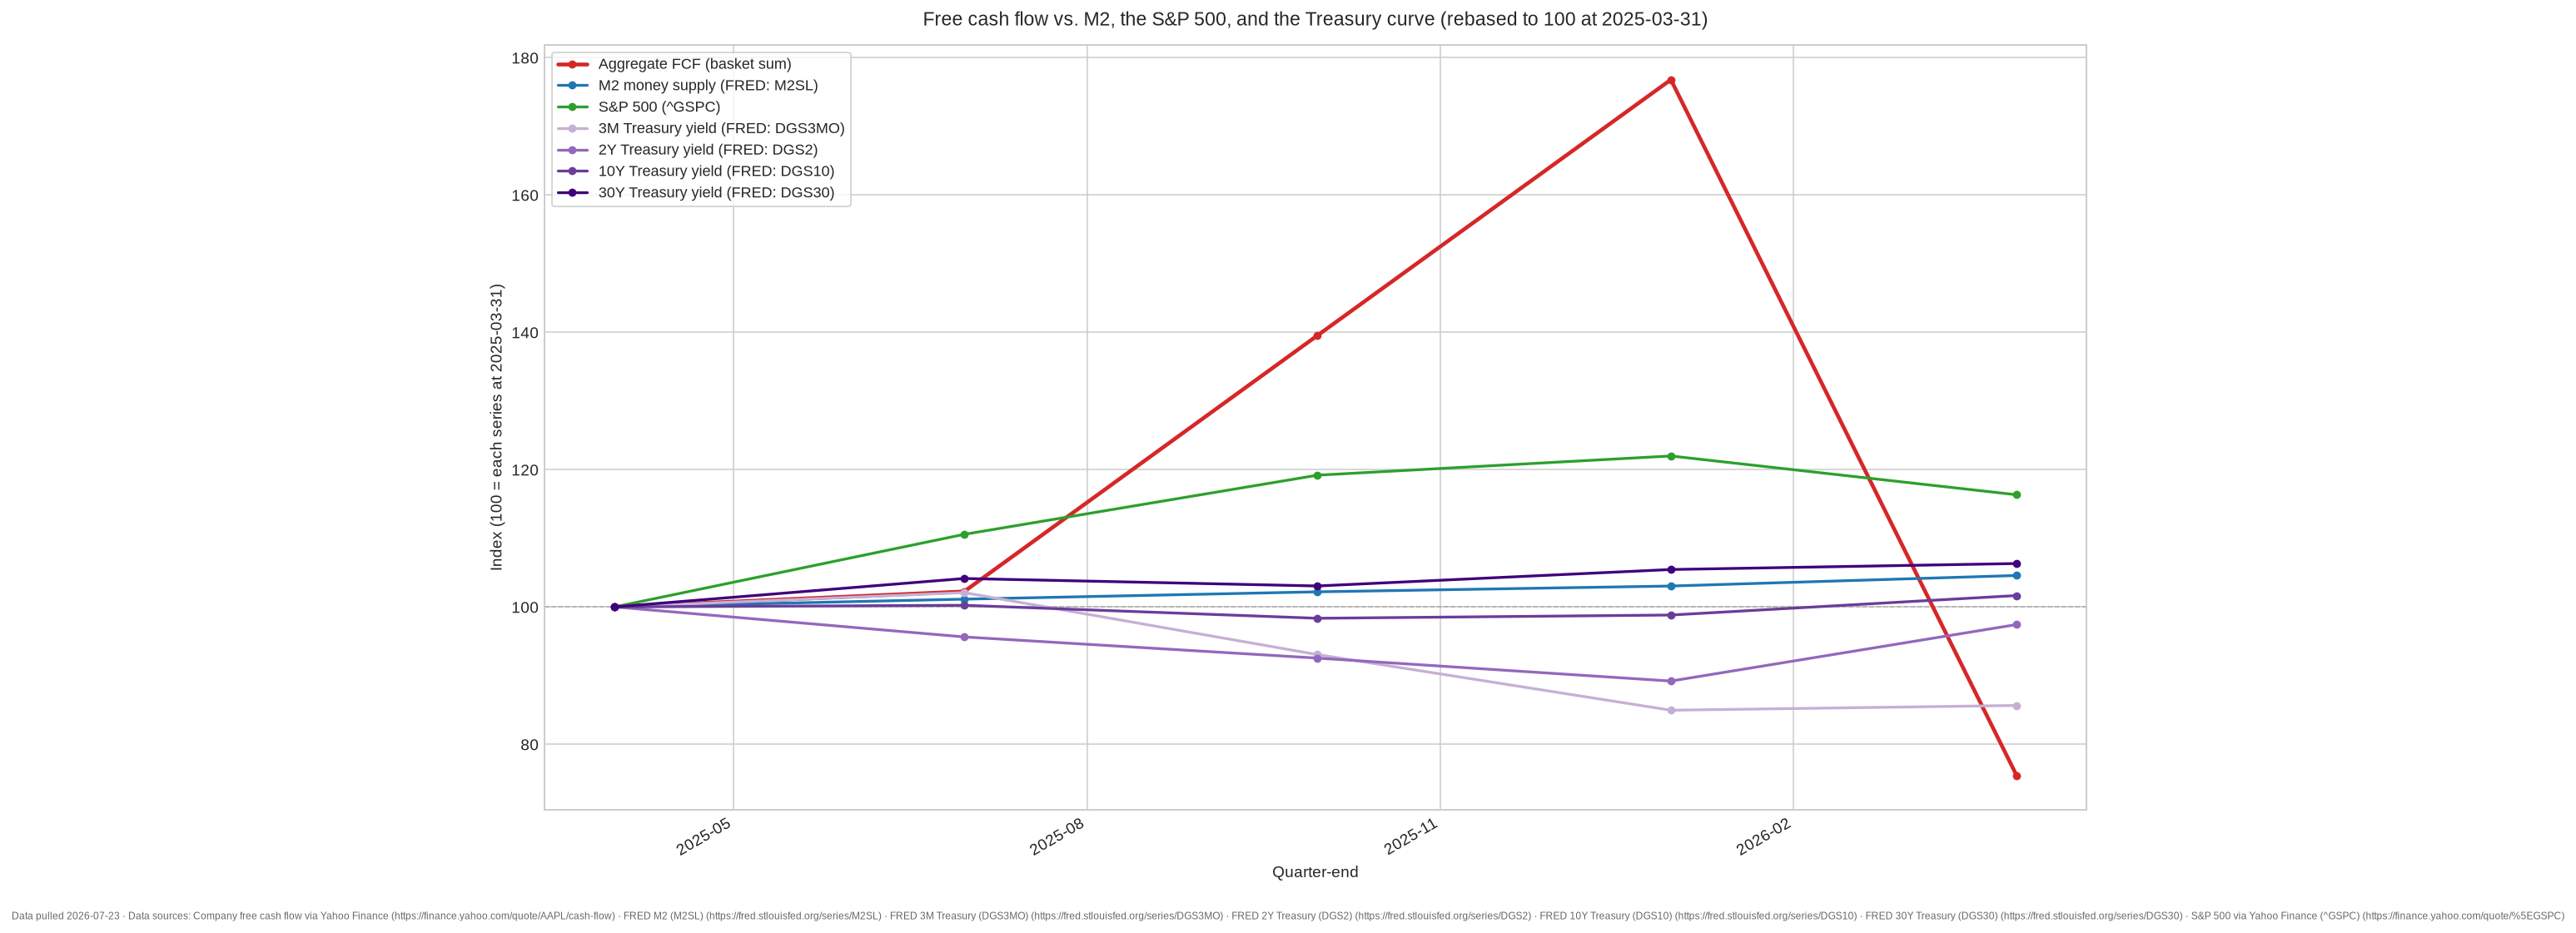
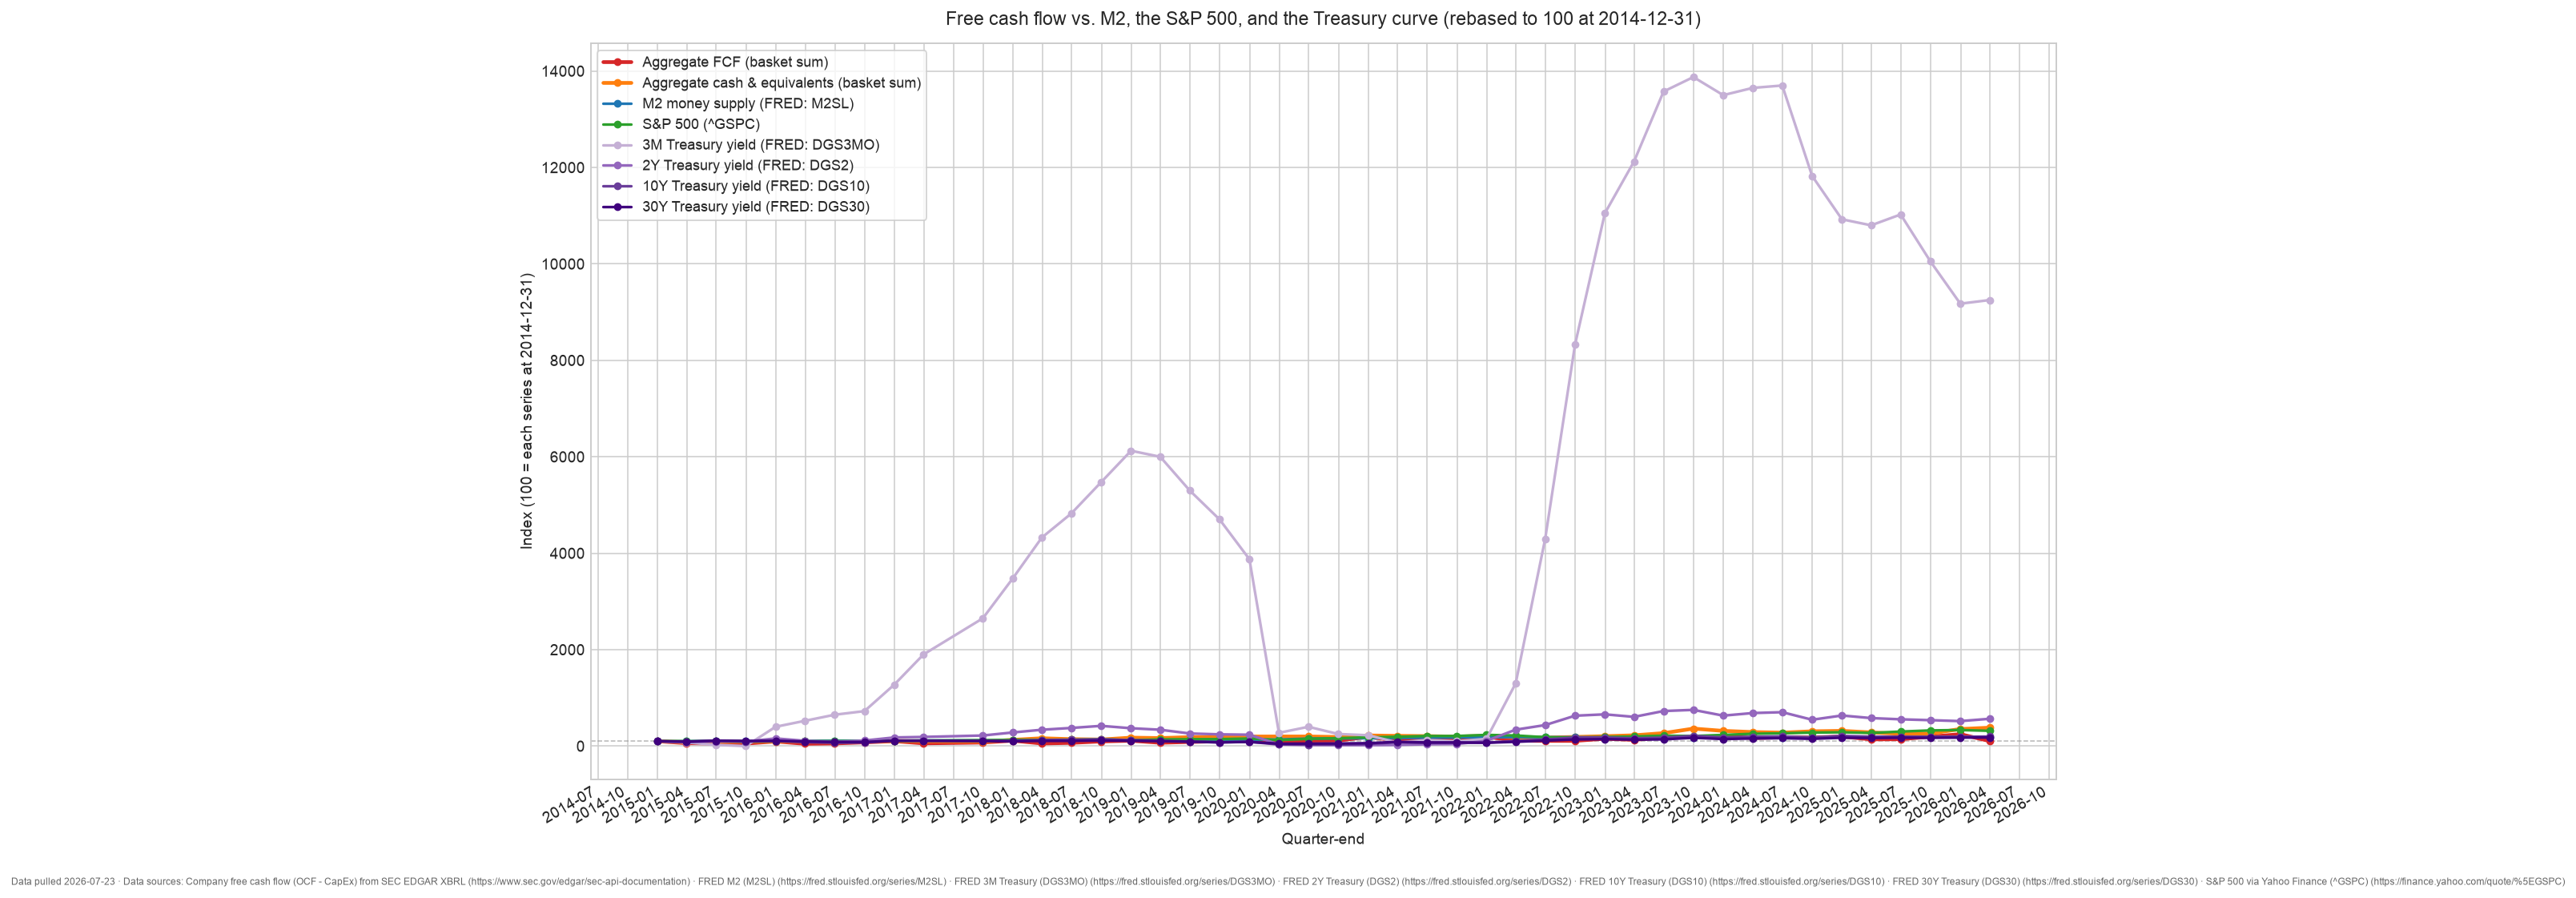
Merge XBRL tags per concept so FCF spans the full history
The FCF reconstruction produced a series.csv where no quarter had FCF
for all five basket members, so plot_fcf_macro.py aborted with
"No quarter has FCF for every basket member."

Three compounding bugs in the SEC EDGAR fetch:

- _pick_concept returned the first non-empty XBRL tag and stopped, but
  filers rename tags mid-history (AMZN CapEx: PropertyPlantAndEquipment
  -> ProductiveAssets in 2017; AAPL the reverse), so each series was
  silently truncated to one era. Replace with _concept_facts, which
  unions facts across every candidate tag.
- _discrete_quarterly differenced YTD legs keyed on SEC's fy/fp labels,
  which describe the filing, not the period, so prior-year comparatives
  collided and real quarters were dropped. Rework to group by the actual
  reported period (start/end), take native ~3-month legs directly, and
  difference consecutive YTD legs only when one quarter apart.
- Apple's 52/53-week fiscal quarters end on dates (e.g. 2017-04-01) that
  snap forward into the next calendar quarter. Add _nearest_quarter_end
  for report-period ends; keep containing-quarter bucketing for the
  dense FRED/Yahoo daily series.

Quarters with all five FCF members: 0 -> 45 (2014-Q4..2026-Q1). The
spurious MSFT -$2.7B quarter is gone; remaining negatives are AMZN's
real Q1/AI-capex seasonality.

diff --git a/fcf-macro-indicators/output/fcf-macro-indicators.html b/fcf-macro-indicators/output/fcf-macro-indicators.html
@@ -2,6 +2,6 @@
 <head><title>Free Cash Flow vs. M2, the S&amp;P 500 &amp; the Treasury Curve</title><meta charset="utf-8" /></head>
 <body>
     <div style="height:100%; width:100%;">                        <script>window.PlotlyConfig = {MathJaxConfig: 'local'};</script>
-        <script charset="utf-8" src="https://cdn.plot.ly/plotly-3.7.0.min.js" integrity="sha256-jvTGqxNp8AGWEcvNLVuKr+8j5dGe9Yw51LQkmDH+IYA=" crossorigin="anonymous"></script>                <div id="5cff0dcf-771c-4546-933f-2775f1819761" class="plotly-graph-div" style="height:100%; width:100%;"></div>            <script>                window.PLOTLYENV=window.PLOTLYENV || {};                                if (document.getElementById("5cff0dcf-771c-4546-933f-2775f1819761")) {                    Plotly.newPlot(                        "5cff0dcf-771c-4546-933f-2775f1819761",                        [{"hovertemplate":"%{y:.1f}\u003cextra\u003eAggregate FCF (basket sum)\u003c\u002fextra\u003e","line":{"color":"#d62728","width":2.6},"marker":{"size":5},"mode":"lines+markers","name":"Aggregate FCF (basket sum)","x":["2025-03-31T00:00:00.000000","2025-06-30T00:00:00.000000","2025-09-30T00:00:00.000000","2025-12-31T00:00:00.000000","2026-03-31T00:00:00.000000"],"y":{"dtype":"f8","bdata":"AAAAAAAAWUBuX1ZoQo9ZQCftYAdXcWFAFLPuZyAZZkCebW6yHt5SQA=="},"type":"scatter"},{"hovertemplate":"%{y:.1f}\u003cextra\u003eM2 money supply (FRED: M2SL)\u003c\u002fextra\u003e","line":{"color":"#1f77b4","width":1.7},"marker":{"size":5},"mode":"lines+markers","name":"M2 money supply (FRED: M2SL)","x":["2025-03-31T00:00:00.000000","2025-06-30T00:00:00.000000","2025-09-30T00:00:00.000000","2025-12-31T00:00:00.000000","2026-03-31T00:00:00.000000"],"y":{"dtype":"f8","bdata":"AAAAAAAAWUDE\u002fQATT0hZQHA4fh6qjFlAsHb0HafCWUBnLmGy1SRaQA=="},"type":"scatter"},{"hovertemplate":"%{y:.1f}\u003cextra\u003eS&P 500 (^GSPC)\u003c\u002fextra\u003e","line":{"color":"#2ca02c","width":1.7},"marker":{"size":5},"mode":"lines+markers","name":"S&P 500 (^GSPC)","x":["2025-03-31T00:00:00.000000","2025-06-30T00:00:00.000000","2025-09-30T00:00:00.000000","2025-12-31T00:00:00.000000","2026-03-31T00:00:00.000000"],"y":{"dtype":"f8","bdata":"AAAAAAAAWUD24ci5ZaRbQJ9KBSjQy11AhcDKkOh+XkA7mCwcaRVdQA=="},"type":"scatter"},{"hovertemplate":"%{y:.1f}\u003cextra\u003e3M Treasury yield (FRED: DGS3MO)\u003c\u002fextra\u003e","line":{"color":"#c5b0d5","width":1.7},"marker":{"size":5},"mode":"lines+markers","name":"3M Treasury yield (FRED: DGS3MO)","x":["2025-03-31T00:00:00.000000","2025-06-30T00:00:00.000000","2025-09-30T00:00:00.000000","2025-12-31T00:00:00.000000","2026-03-31T00:00:00.000000"],"y":{"dtype":"f8","bdata":"AAAAAAAAWUBVVVVVVYVZQDiO4ziOQ1dA0F5Cewk9VUCX0F5Ce2lVQA=="},"type":"scatter"},{"hovertemplate":"%{y:.1f}\u003cextra\u003e2Y Treasury yield (FRED: DGS2)\u003c\u002fextra\u003e","line":{"color":"#9467bd","width":1.7},"marker":{"size":5},"mode":"lines+markers","name":"2Y Treasury yield (FRED: DGS2)","x":["2025-03-31T00:00:00.000000","2025-06-30T00:00:00.000000","2025-09-30T00:00:00.000000","2025-12-31T00:00:00.000000","2026-03-31T00:00:00.000000"],"y":{"dtype":"f8","bdata":"AAAAAAAAWUACzML4TuhXQG7FxBHhIldA9+iGV\u002f9MVkAvpYG\u002feVtYQA=="},"type":"scatter"},{"hovertemplate":"%{y:.1f}\u003cextra\u003e10Y Treasury yield (FRED: DGS10)\u003c\u002fextra\u003e","line":{"color":"#6a3d9a","width":1.7},"marker":{"size":5},"mode":"lines+markers","name":"10Y Treasury yield (FRED: DGS10)","x":["2025-03-31T00:00:00.000000","2025-06-30T00:00:00.000000","2025-09-30T00:00:00.000000","2025-12-31T00:00:00.000000","2026-03-31T00:00:00.000000"],"y":{"dtype":"f8","bdata":"AAAAAAAAWUBZtDpJIQ9ZQIwRZf8WllhAP3rakVm0WEBy7poA6WlZQA=="},"type":"scatter"},{"hovertemplate":"%{y:.1f}\u003cextra\u003e30Y Treasury yield (FRED: DGS30)\u003c\u002fextra\u003e","line":{"color":"#3f007d","width":1.7},"marker":{"size":5},"mode":"lines+markers","name":"30Y Treasury yield (FRED: DGS30)","x":["2025-03-31T00:00:00.000000","2025-06-30T00:00:00.000000","2025-09-30T00:00:00.000000","2025-12-31T00:00:00.000000","2026-03-31T00:00:00.000000"],"y":{"dtype":"f8","bdata":"AAAAAAAAWUAml7N67AhaQFOKGPw0w1lAJEAHeZVcWkDNsOl3W5RaQA=="},"type":"scatter"}],                        {"template":{"data":{"barpolar":[{"marker":{"line":{"color":"white","width":0.5},"pattern":{"fillmode":"overlay","size":10,"solidity":0.2}},"type":"barpolar"}],"bar":[{"error_x":{"color":"#2a3f5f"},"error_y":{"color":"#2a3f5f"},"marker":{"line":{"color":"white","width":0.5},"pattern":{"fillmode":"overlay","size":10,"solidity":0.2}},"type":"bar"}],"carpet":[{"aaxis":{"endlinecolor":"#2a3f5f","gridcolor":"#C8D4E3","linecolor":"#C8D4E3","minorgridcolor":"#C8D4E3","startlinecolor":"#2a3f5f"},"baxis":{"endlinecolor":"#2a3f5f","gridcolor":"#C8D4E3","linecolor":"#C8D4E3","minorgridcolor":"#C8D4E3","startlinecolor":"#2a3f5f"},"type":"carpet"}],"choropleth":[{"colorbar":{"outlinewidth":0,"ticks":""},"type":"choropleth"}],"contourcarpet":[{"colorbar":{"outlinewidth":0,"ticks":""},"type":"contourcarpet"}],"contour":[{"colorbar":{"outlinewidth":0,"ticks":""},"colorscale":[[0.0,"#0d0887"],[0.1111111111111111,"#46039f"],[0.2222222222222222,"#7201a8"],[0.3333333333333333,"#9c179e"],[0.4444444444444444,"#bd3786"],[0.5555555555555556,"#d8576b"],[0.6666666666666666,"#ed7953"],[0.7777777777777778,"#fb9f3a"],[0.8888888888888888,"#fdca26"],[1.0,"#f0f921"]],"type":"contour"}],"heatmap":[{"colorbar":{"outlinewidth":0,"ticks":""},"colorscale":[[0.0,"#0d0887"],[0.1111111111111111,"#46039f"],[0.2222222222222222,"#7201a8"],[0.3333333333333333,"#9c179e"],[0.4444444444444444,"#bd3786"],[0.5555555555555556,"#d8576b"],[0.6666666666666666,"#ed7953"],[0.7777777777777778,"#fb9f3a"],[0.8888888888888888,"#fdca26"],[1.0,"#f0f921"]],"type":"heatmap"}],"histogram2dcontour":[{"colorbar":{"outlinewidth":0,"ticks":""},"colorscale":[[0.0,"#0d0887"],[0.1111111111111111,"#46039f"],[0.2222222222222222,"#7201a8"],[0.3333333333333333,"#9c179e"],[0.4444444444444444,"#bd3786"],[0.5555555555555556,"#d8576b"],[0.6666666666666666,"#ed7953"],[0.7777777777777778,"#fb9f3a"],[0.8888888888888888,"#fdca26"],[1.0,"#f0f921"]],"type":"histogram2dcontour"}],"histogram2d":[{"colorbar":{"outlinewidth":0,"ticks":""},"colorscale":[[0.0,"#0d0887"],[0.1111111111111111,"#46039f"],[0.2222222222222222,"#7201a8"],[0.3333333333333333,"#9c179e"],[0.4444444444444444,"#bd3786"],[0.5555555555555556,"#d8576b"],[0.6666666666666666,"#ed7953"],[0.7777777777777778,"#fb9f3a"],[0.8888888888888888,"#fdca26"],[1.0,"#f0f921"]],"type":"histogram2d"}],"histogram":[{"marker":{"pattern":{"fillmode":"overlay","size":10,"solidity":0.2}},"type":"histogram"}],"mesh3d":[{"colorbar":{"outlinewidth":0,"ticks":""},"type":"mesh3d"}],"parcoords":[{"line":{"colorbar":{"outlinewidth":0,"ticks":""}},"type":"parcoords"}],"pie":[{"automargin":true,"type":"pie"}],"scatter3d":[{"line":{"colorbar":{"outlinewidth":0,"ticks":""}},"marker":{"colorbar":{"outlinewidth":0,"ticks":""}},"type":"scatter3d"}],"scattercarpet":[{"marker":{"colorbar":{"outlinewidth":0,"ticks":""}},"type":"scattercarpet"}],"scattergeo":[{"marker":{"colorbar":{"outlinewidth":0,"ticks":""}},"type":"scattergeo"}],"scattergl":[{"marker":{"colorbar":{"outlinewidth":0,"ticks":""}},"type":"scattergl"}],"scattermapbox":[{"marker":{"colorbar":{"outlinewidth":0,"ticks":""}},"type":"scattermapbox"}],"scattermap":[{"marker":{"colorbar":{"outlinewidth":0,"ticks":""}},"type":"scattermap"}],"scatterpolargl":[{"marker":{"colorbar":{"outlinewidth":0,"ticks":""}},"type":"scatterpolargl"}],"scatterpolar":[{"marker":{"colorbar":{"outlinewidth":0,"ticks":""}},"type":"scatterpolar"}],"scatter":[{"fillpattern":{"fillmode":"overlay","size":10,"solidity":0.2},"type":"scatter"}],"scatterternary":[{"marker":{"colorbar":{"outlinewidth":0,"ticks":""}},"type":"scatterternary"}],"surface":[{"colorbar":{"outlinewidth":0,"ticks":""},"colorscale":[[0.0,"#0d0887"],[0.1111111111111111,"#46039f"],[0.2222222222222222,"#7201a8"],[0.3333333333333333,"#9c179e"],[0.4444444444444444,"#bd3786"],[0.5555555555555556,"#d8576b"],[0.6666666666666666,"#ed7953"],[0.7777777777777778,"#fb9f3a"],[0.8888888888888888,"#fdca26"],[1.0,"#f0f921"]],"type":"surface"}],"table":[{"cells":{"fill":{"color":"#EBF0F8"},"line":{"color":"white"}},"header":{"fill":{"color":"#C8D4E3"},"line":{"color":"white"}},"type":"table"}]},"layout":{"annotationdefaults":{"arrowcolor":"#2a3f5f","arrowhead":0,"arrowwidth":1},"autotypenumbers":"strict","coloraxis":{"colorbar":{"outlinewidth":0,"ticks":""}},"colorscale":{"diverging":[[0,"#8e0152"],[0.1,"#c51b7d"],[0.2,"#de77ae"],[0.3,"#f1b6da"],[0.4,"#fde0ef"],[0.5,"#f7f7f7"],[0.6,"#e6f5d0"],[0.7,"#b8e186"],[0.8,"#7fbc41"],[0.9,"#4d9221"],[1,"#276419"]],"sequential":[[0.0,"#0d0887"],[0.1111111111111111,"#46039f"],[0.2222222222222222,"#7201a8"],[0.3333333333333333,"#9c179e"],[0.4444444444444444,"#bd3786"],[0.5555555555555556,"#d8576b"],[0.6666666666666666,"#ed7953"],[0.7777777777777778,"#fb9f3a"],[0.8888888888888888,"#fdca26"],[1.0,"#f0f921"]],"sequentialminus":[[0.0,"#0d0887"],[0.1111111111111111,"#46039f"],[0.2222222222222222,"#7201a8"],[0.3333333333333333,"#9c179e"],[0.4444444444444444,"#bd3786"],[0.5555555555555556,"#d8576b"],[0.6666666666666666,"#ed7953"],[0.7777777777777778,"#fb9f3a"],[0.8888888888888888,"#fdca26"],[1.0,"#f0f921"]]},"colorway":["#636efa","#EF553B","#00cc96","#ab63fa","#FFA15A","#19d3f3","#FF6692","#B6E880","#FF97FF","#FECB52"],"font":{"color":"#2a3f5f"},"geo":{"bgcolor":"white","lakecolor":"white","landcolor":"white","showlakes":true,"showland":true,"subunitcolor":"#C8D4E3"},"hoverlabel":{"align":"left"},"hovermode":"closest","mapbox":{"style":"light"},"paper_bgcolor":"white","plot_bgcolor":"white","polar":{"angularaxis":{"gridcolor":"#EBF0F8","linecolor":"#EBF0F8","ticks":""},"bgcolor":"white","radialaxis":{"gridcolor":"#EBF0F8","linecolor":"#EBF0F8","ticks":""}},"scene":{"xaxis":{"backgroundcolor":"white","gridcolor":"#DFE8F3","gridwidth":2,"linecolor":"#EBF0F8","showbackground":true,"ticks":"","zerolinecolor":"#EBF0F8"},"yaxis":{"backgroundcolor":"white","gridcolor":"#DFE8F3","gridwidth":2,"linecolor":"#EBF0F8","showbackground":true,"ticks":"","zerolinecolor":"#EBF0F8"},"zaxis":{"backgroundcolor":"white","gridcolor":"#DFE8F3","gridwidth":2,"linecolor":"#EBF0F8","showbackground":true,"ticks":"","zerolinecolor":"#EBF0F8"}},"shapedefaults":{"line":{"color":"#2a3f5f"}},"ternary":{"aaxis":{"gridcolor":"#DFE8F3","linecolor":"#A2B1C6","ticks":""},"baxis":{"gridcolor":"#DFE8F3","linecolor":"#A2B1C6","ticks":""},"bgcolor":"white","caxis":{"gridcolor":"#DFE8F3","linecolor":"#A2B1C6","ticks":""}},"title":{"x":0.05},"xaxis":{"automargin":true,"gridcolor":"#EBF0F8","linecolor":"#EBF0F8","ticks":"","title":{"standoff":15},"zerolinecolor":"#EBF0F8","zerolinewidth":2},"yaxis":{"automargin":true,"gridcolor":"#EBF0F8","linecolor":"#EBF0F8","ticks":"","title":{"standoff":15},"zerolinecolor":"#EBF0F8","zerolinewidth":2}}},"shapes":[{"line":{"color":"#999999","dash":"dash","width":0.8},"type":"line","x0":0,"x1":1,"xref":"x domain","y0":100.0,"y1":100.0,"yref":"y"}],"title":{"font":{"size":14},"text":"Free cash flow vs. M2, the S&P 500, and the Treasury curve (rebased to 100 at 2025-03-31)"},"legend":{"x":0.01,"y":0.99,"bgcolor":"rgba(255,255,255,0.8)","bordercolor":"#cccccc","borderwidth":1},"margin":{"l":70,"r":30,"t":90,"b":60},"hovermode":"x unified","dragmode":"zoom","updatemenus":[{"buttons":[{"args":[{"yaxis.type":"linear"}],"label":"Linear","method":"relayout"},{"args":[{"yaxis.type":"log"}],"label":"Log","method":"relayout"}],"direction":"right","showactive":true,"type":"buttons","x":1.0,"xanchor":"right","y":1.12}],"xaxis":{"title":{"text":"Quarter-end"},"rangeslider":{"visible":true,"thickness":0.06},"showspikes":true,"spikemode":"across","spikethickness":1,"rangeselector":{"buttons":[{"count":3,"label":"3y","step":"year","stepmode":"backward"},{"count":5,"label":"5y","step":"year","stepmode":"backward"},{"count":10,"label":"10y","step":"year","stepmode":"backward"},{"label":"All","step":"all"}]}},"yaxis":{"title":{"text":"Index (100 = each series at 2025-03-31)"},"fixedrange":false,"showspikes":false}},                        {"scrollZoom": true, "displaylogo": false, "responsive": true}                    )                };            </script>        </div>
-<footer style="font-family:system-ui,-apple-system,Segoe UI,Roboto,sans-serif;font-size:12px;color:#666;text-align:center;padding:8px 16px 16px">Data pulled 2026-07-23 &middot; <strong>Data sources:</strong> <a href="https://finance.yahoo.com/quote/AAPL/cash-flow" target="_blank" rel="noopener">Company free cash flow via Yahoo Finance</a> · <a href="https://fred.stlouisfed.org/series/M2SL" target="_blank" rel="noopener">FRED M2 (M2SL)</a> · <a href="https://fred.stlouisfed.org/series/DGS3MO" target="_blank" rel="noopener">FRED 3M Treasury (DGS3MO)</a> · <a href="https://fred.stlouisfed.org/series/DGS2" target="_blank" rel="noopener">FRED 2Y Treasury (DGS2)</a> · <a href="https://fred.stlouisfed.org/series/DGS10" target="_blank" rel="noopener">FRED 10Y Treasury (DGS10)</a> · <a href="https://fred.stlouisfed.org/series/DGS30" target="_blank" rel="noopener">FRED 30Y Treasury (DGS30)</a> · <a href="https://finance.yahoo.com/quote/%5EGSPC" target="_blank" rel="noopener">S&P 500 via Yahoo Finance (^GSPC)</a></footer></body>
[1 lines of base64/hex data omitted]
+<footer style="font-family:system-ui,-apple-system,Segoe UI,Roboto,sans-serif;font-size:12px;color:#666;text-align:center;padding:8px 16px 16px">Data pulled 2026-07-23 &middot; <strong>Data sources:</strong> <a href="https://www.sec.gov/edgar/sec-api-documentation" target="_blank" rel="noopener">Company free cash flow (OCF - CapEx) from SEC EDGAR XBRL</a> · <a href="https://fred.stlouisfed.org/series/M2SL" target="_blank" rel="noopener">FRED M2 (M2SL)</a> · <a href="https://fred.stlouisfed.org/series/DGS3MO" target="_blank" rel="noopener">FRED 3M Treasury (DGS3MO)</a> · <a href="https://fred.stlouisfed.org/series/DGS2" target="_blank" rel="noopener">FRED 2Y Treasury (DGS2)</a> · <a href="https://fred.stlouisfed.org/series/DGS10" target="_blank" rel="noopener">FRED 10Y Treasury (DGS10)</a> · <a href="https://fred.stlouisfed.org/series/DGS30" target="_blank" rel="noopener">FRED 30Y Treasury (DGS30)</a> · <a href="https://finance.yahoo.com/quote/%5EGSPC" target="_blank" rel="noopener">S&P 500 via Yahoo Finance (^GSPC)</a></footer></body>
 </html>

diff --git a/fcf-macro-indicators/src/fetch_data.py b/fcf-macro-indicators/src/fetch_data.py
@@ -31,6 +31,7 @@ import time
 from datetime import date
 from pathlib import Path
 
+import numpy as np
 import pandas as pd
 import pandas_datareader.data as web
 import requests
@@ -91,18 +92,36 @@ CASH_TAGS = [
     "CashAndCashEquivalentsAtCarryingValue",
     "CashCashEquivalentsRestrictedCashAndRestrictedCashEquivalents",
 ]
-# Cumulative year-to-date length (months) of each fiscal period on a cash-flow
-# statement: Q1 = 3, Q2 = 6 (H1), Q3 = 9 (9M), FY = 12. Q4 is never filed alone.
-_FP_MONTHS = {"Q1": 3, "Q2": 6, "Q3": 9, "FY": 12}
-# Ordered (period, previous-period) pairs used to difference YTD into discrete
-# quarters: Q1 as-is, Q2 = H1 - Q1, Q3 = 9M - H1, Q4 = FY - 9M.
-_FP_PREV = [("Q1", None), ("Q2", "Q1"), ("Q3", "Q2"), ("FY", "Q3")]
+# A discrete quarter is ~3 months; allow a wide tolerance so a 52/53-week fiscal
+# quarter (~2.9-3.2 months) still counts, while a half-year leg (~6 months) never
+# does. Used both to spot a natively-reported quarter and to confirm two YTD legs
+# are exactly one quarter apart before differencing them.
+_ONE_Q_LOW, _ONE_Q_HIGH = 2.0, 4.0
 
 
 def _to_quarter_end(idx: pd.DatetimeIndex) -> pd.DatetimeIndex:
-    """Snap any timestamps to their calendar-quarter-end, so fiscal-quarter report
-    dates (e.g. 2024-06-29) and month-ends align on one grid (2024-06-30)."""
+    """Snap timestamps to their *containing* calendar quarter-end. Used to bucket
+    dense daily series (FRED/Yahoo) into quarters -- a May observation belongs to
+    Q2, so the containing quarter is what's wanted here."""
     return idx.to_period("Q").to_timestamp(how="end").normalize()
+
+
+def _nearest_quarter_end(idx) -> pd.DatetimeIndex:
+    """Snap reported-period end dates to the *nearest* calendar quarter-end. Nearest
+    (not containing) so a 52/53-week fiscal calendar whose quarter boundary drifts a
+    few days across a calendar-quarter line -- e.g. Apple's fiscal Q2 ending
+    2017-04-01 -- lands on the quarter it economically represents (2017-03-31)
+    instead of jumping a quarter forward and leaving the real quarter empty."""
+    idx = pd.DatetimeIndex(idx)
+    this_qe = idx.to_period("Q").to_timestamp(how="end").normalize()
+    prev_qe = (idx.to_period("Q") - 1).to_timestamp(how="end").normalize()
+    nearer_prev = np.abs((idx - prev_qe).values) < np.abs((this_qe - idx).values)
+    return pd.DatetimeIndex(np.where(nearer_prev, prev_qe.values, this_qe.values))
+
+
+def _snap_quarter_end(ts: pd.Timestamp) -> pd.Timestamp:
+    """`_nearest_quarter_end` for a single timestamp."""
+    return _nearest_quarter_end([ts])[0]
 
 
 def _quarter_last(frame: pd.DataFrame | pd.Series) -> pd.DataFrame | pd.Series:
@@ -165,43 +184,56 @@ def _load_ticker_cik_map(session: requests.Session) -> dict[str, int]:
 
 
 def _discrete_quarterly(facts: list[dict]) -> pd.Series:
-    """Cumulative YTD cash-flow facts -> discrete per-quarter values indexed by
+    """Cash-flow-statement facts -> discrete per-quarter values indexed by
     calendar-quarter-end.
 
-    Cash-flow-statement concepts are only ever reported year-to-date, so within
-    each fiscal year we difference the cumulative legs (Q2 = H1 - Q1, and so on).
-    A fiscal year missing a leg simply omits the quarters that depend on it. When
-    the same period is restated across filings, the latest-filed value wins.
+    Two kinds of facts become discrete quarters:
+      * a fact whose own duration is ~one quarter (some filers, e.g. Amazon, report
+        a native three-month leg) is a discrete quarter as reported; and
+      * cumulative year-to-date legs that share a fiscal-year start are differenced
+        pairwise (H1 - Q1, 9M - H1, FY - 9M), each difference landing on the later
+        leg's quarter-end -- but only when the two legs are exactly one quarter
+        apart, so a missing leg never fabricates a value.
+
+    Periods are grouped by what they actually cover (`start`/`end`), NOT by SEC's
+    `fy`/`fp` labels: those describe the *filing*, so a prior-year comparative
+    carried into a later filing is mislabelled and would collide with the real
+    period. On identical periods the latest-filed value wins (then the preferred
+    tag), which also absorbs restatements and cross-tag overlaps.
     """
     rows = []
     for f in facts or []:
         if f.get("val") is None or "start" not in f or "end" not in f:
             continue
-        fp = f.get("fp")
-        if fp not in _FP_MONTHS:
-            continue
         start, end = pd.Timestamp(f["start"]), pd.Timestamp(f["end"])
         months = (end - start).days / 30.4
-        if abs(months - _FP_MONTHS[fp]) > 1.2:
-            continue  # duration doesn't match the claimed fiscal period -- skip
-        rows.append({"fy": f.get("fy"), "fp": fp, "end": end,
-                     "filed": f.get("filed", ""), "val": float(f["val"])})
+        if months < 1:
+            continue
+        rows.append({"start": start, "end": end, "months": months,
+                     "filed": f.get("filed", ""), "prio": f.get("_prio", 0),
+                     "val": float(f["val"])})
     if not rows:
         return pd.Series(dtype=float)
 
-    df = pd.DataFrame(rows).sort_values("filed").drop_duplicates(["fy", "fp"], keep="last")
+    # keep='last' after this sort keeps the latest-filed fact for each period, and
+    # among equally-filed facts the preferred (lowest-index) tag.
+    df = (pd.DataFrame(rows)
+          .sort_values(["filed", "prio"], ascending=[True, False])
+          .drop_duplicates(["start", "end"], keep="last"))
+
     out: dict[pd.Timestamp, float] = {}
-    for _fy, g in df.groupby("fy"):
-        cum = {r.fp: (r.val, r.end) for r in g.itertuples()}
-        for fp, prev in _FP_PREV:
-            if fp not in cum:
-                continue
-            val, end = cum[fp]
-            if prev is not None:
-                if prev not in cum:
-                    continue  # can't difference without the earlier cumulative leg
-                val = val - cum[prev][0]
-            out[end.to_period("Q").to_timestamp(how="end").normalize()] = val
+    # Natively-reported one-quarter legs are discrete quarters as-is.
+    for r in df.itertuples():
+        if _ONE_Q_LOW <= r.months <= _ONE_Q_HIGH:
+            out[_snap_quarter_end(r.end)] = r.val
+    # Difference consecutive YTD legs sharing a fiscal-year start; fill only the
+    # quarters a native leg didn't already cover.
+    for _start, g in df.sort_values("end").groupby("start"):
+        prev = None
+        for r in g.itertuples():
+            if prev is not None and _ONE_Q_LOW <= (r.end - prev.end).days / 30.4 <= _ONE_Q_HIGH:
+                out.setdefault(_snap_quarter_end(r.end), r.val - prev.val)
+            prev = r
     return pd.Series(out).sort_index()
 
 
@@ -214,31 +246,38 @@ def _instant_quarterly(facts: list[dict]) -> pd.Series:
     for f in facts or []:
         if f.get("val") is None or "end" not in f:
             continue
-        rows.append({"end": pd.Timestamp(f["end"]),
-                     "filed": f.get("filed", ""), "val": float(f["val"])})
+        rows.append({"end": pd.Timestamp(f["end"]), "filed": f.get("filed", ""),
+                     "prio": f.get("_prio", 0), "val": float(f["val"])})
     if not rows:
         return pd.Series(dtype=float)
-    df = pd.DataFrame(rows).sort_values("filed").drop_duplicates("end", keep="last")
-    df["qe"] = _to_quarter_end(pd.DatetimeIndex(df["end"]))
+    df = (pd.DataFrame(rows)
+          .sort_values(["filed", "prio"], ascending=[True, False])
+          .drop_duplicates("end", keep="last"))
+    df["qe"] = _nearest_quarter_end(pd.DatetimeIndex(df["end"]))
     df = df.sort_values("end").drop_duplicates("qe", keep="last")
     return df.set_index("qe")["val"].sort_index().astype(float)
 
 
-def _pick_concept(session: requests.Session, cik: int, tags: list[str], reduce=_discrete_quarterly) -> pd.Series:
-    """First tag (in preference order) whose facts reduce to a non-empty quarterly
-    series. `reduce` turns the raw USD facts into that series (discrete flow by
-    default, or _instant_quarterly for balance-sheet values)."""
-    for tag in tags:
+def _concept_facts(session: requests.Session, cik: int, tags: list[str]) -> list[dict]:
+    """Raw USD facts for a concept, MERGED across all its candidate tags. Filers
+    rename XBRL tags mid-history (Apple's capex ran under PaymentsToAcquire-
+    ProductiveAssets, then ...PropertyPlantAndEquipment; Amazon the reverse), so no
+    single tag spans the full timeline -- picking the first non-empty tag silently
+    truncates the series. Unioning every tag's facts and letting the downstream
+    per-period dedup keep the latest-filed value recovers the whole history. Each
+    fact is stamped with `_prio` (its tag's preference rank, 0 = most preferred),
+    used only to break dedup ties on an identical period."""
+    facts: list[dict] = []
+    for prio, tag in enumerate(tags):
         url = SEC_CONCEPT_URL.format(cik=cik, tag=tag)
         r = session.get(url, timeout=120)
         time.sleep(0.15)  # SEC fair-use: stay well under 10 requests/second
         if r.status_code == 404:
-            continue  # this filer never reported this tag
+            continue  # this filer never reported under this tag
         r.raise_for_status()
-        series = reduce(r.json().get("units", {}).get("USD", []))
-        if not series.empty:
-            return series
-    return pd.Series(dtype=float)
+        for f in r.json().get("units", {}).get("USD", []):
+            facts.append({**f, "_prio": prio})
+    return facts
 
 
 def _fetch_company_fcf(session: requests.Session, ticker: str, cik_map: dict[str, int]) -> pd.Series:
@@ -246,8 +285,8 @@ def _fetch_company_fcf(session: requests.Session, ticker: str, cik_map: dict[str
     cik = cik_map.get(ticker.upper())
     if cik is None:
         raise RuntimeError(f"{ticker}: no CIK in SEC ticker directory (US filer only?).")
-    ocf = _pick_concept(session, cik, OCF_TAGS)
-    capex = _pick_concept(session, cik, CAPEX_TAGS)
+    ocf = _discrete_quarterly(_concept_facts(session, cik, OCF_TAGS))
+    capex = _discrete_quarterly(_concept_facts(session, cik, CAPEX_TAGS))
     if ocf.empty or capex.empty:
         raise RuntimeError(f"{ticker}: missing operating-cash-flow or CapEx XBRL facts.")
     fcf = (ocf - capex).dropna()  # aligned on shared calendar-quarter-ends
@@ -262,7 +301,7 @@ def _fetch_company_cash(session: requests.Session, ticker: str, cik_map: dict[st
     cik = cik_map.get(ticker.upper())
     if cik is None:
         raise RuntimeError(f"{ticker}: no CIK in SEC ticker directory (US filer only?).")
-    cash = _pick_concept(session, cik, CASH_TAGS, reduce=_instant_quarterly)
+    cash = _instant_quarterly(_concept_facts(session, cik, CASH_TAGS))
     cash = cash.loc[(cash.index >= START) & (cash.index <= END)]
     if cash.empty:
         raise RuntimeError(f"{ticker}: no cash & equivalents XBRL facts.")